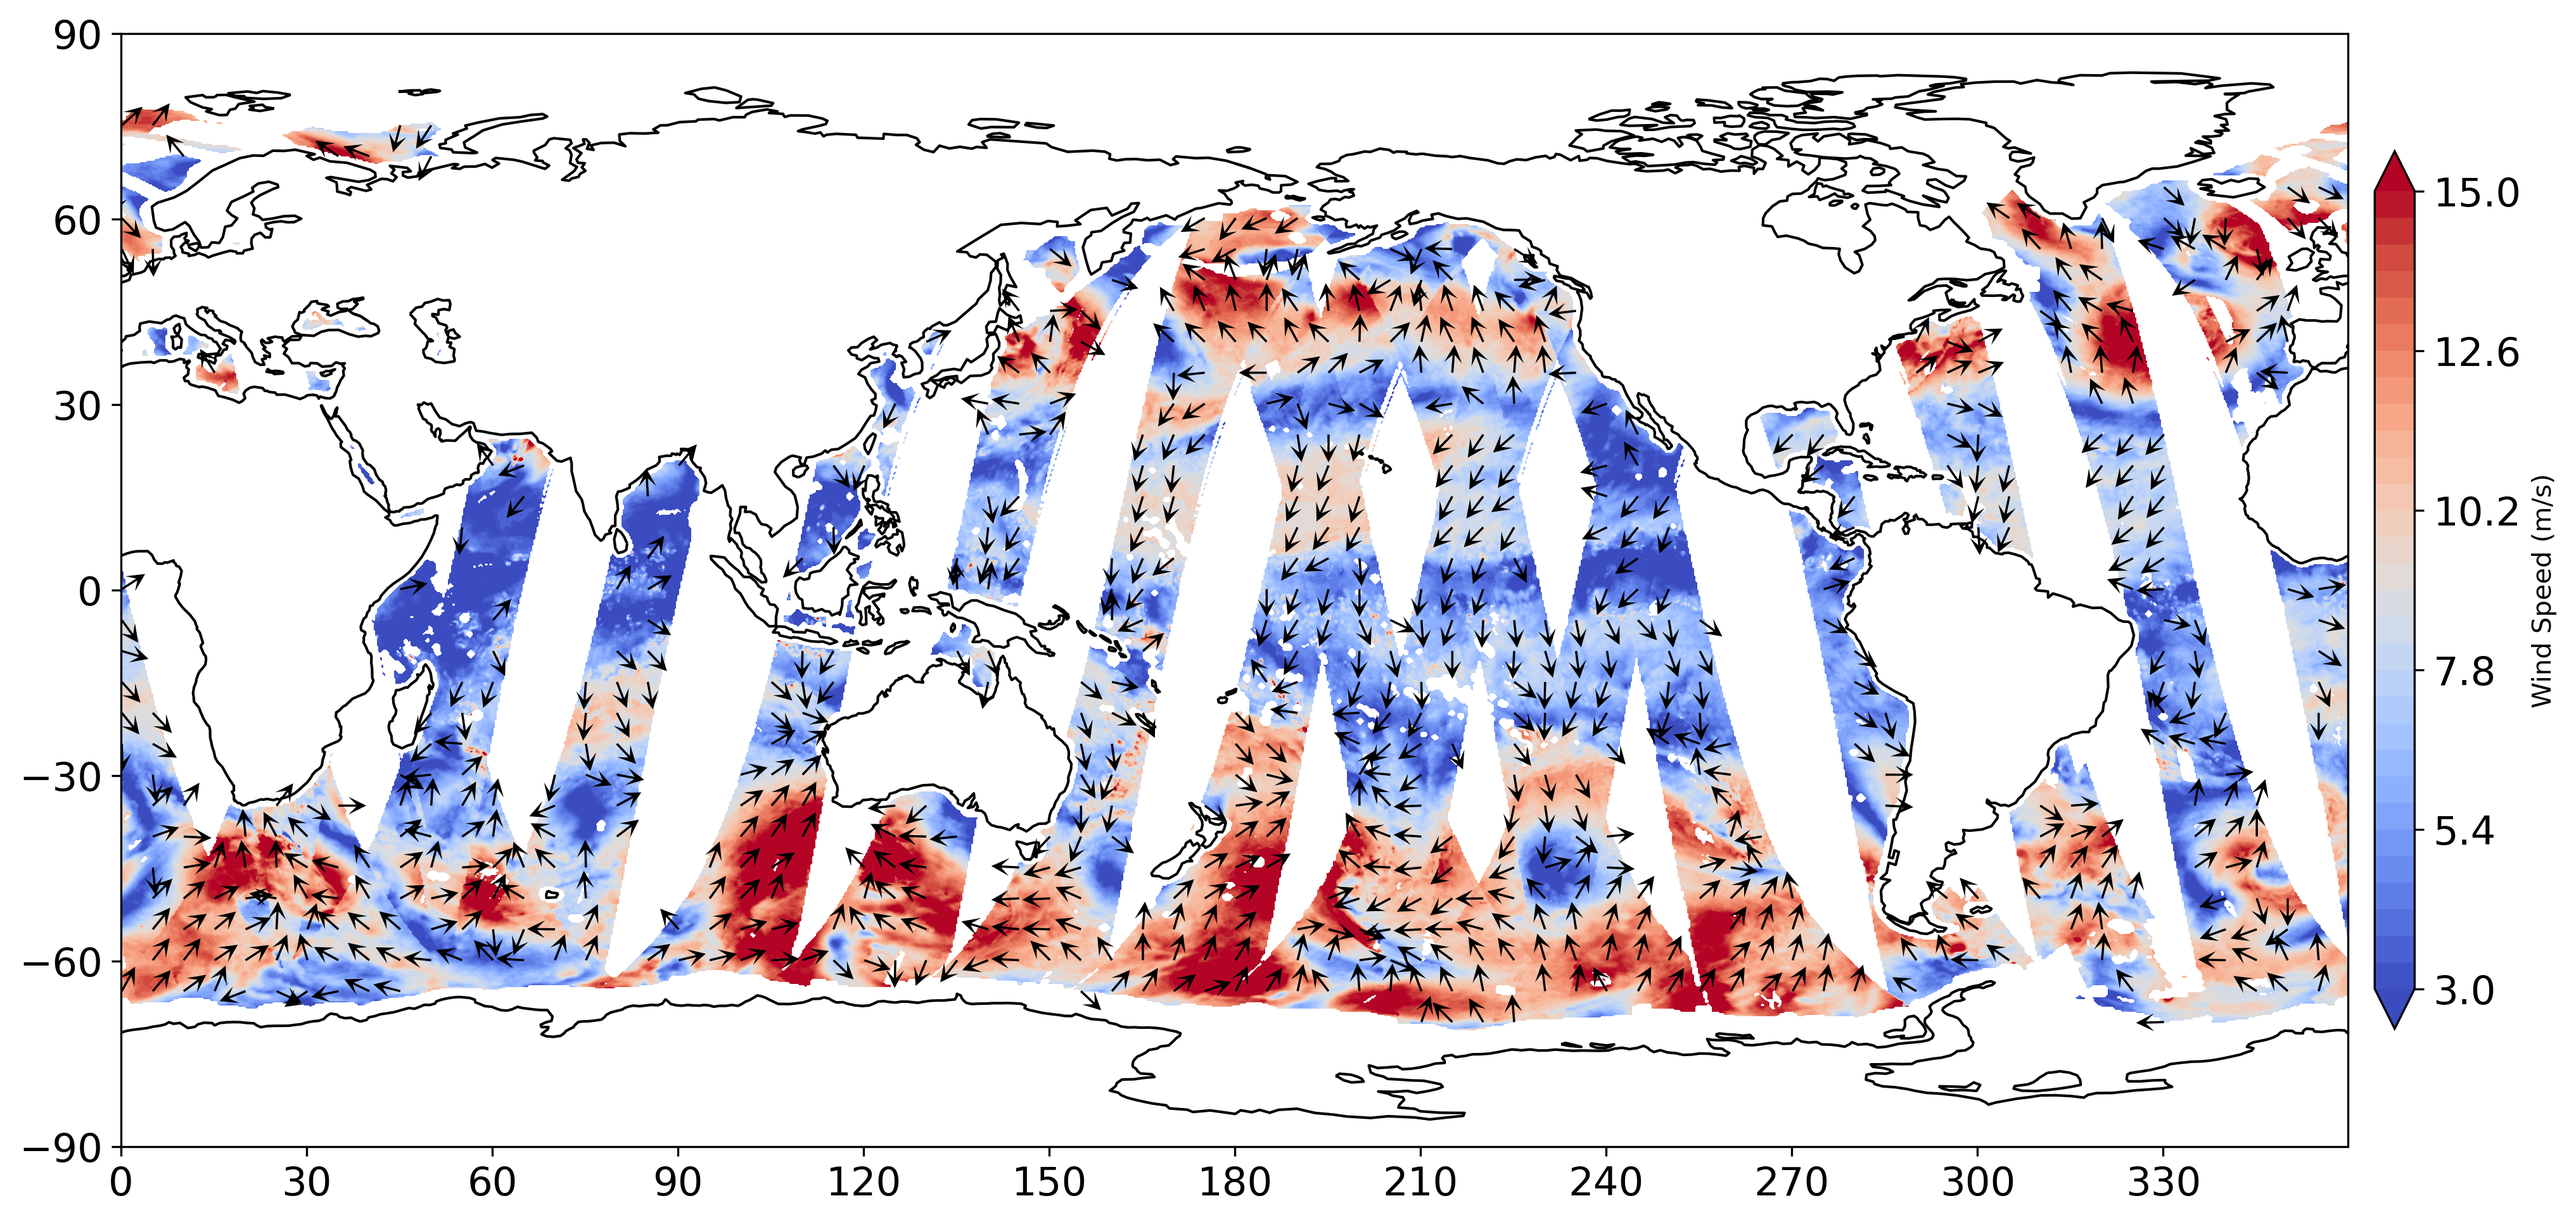
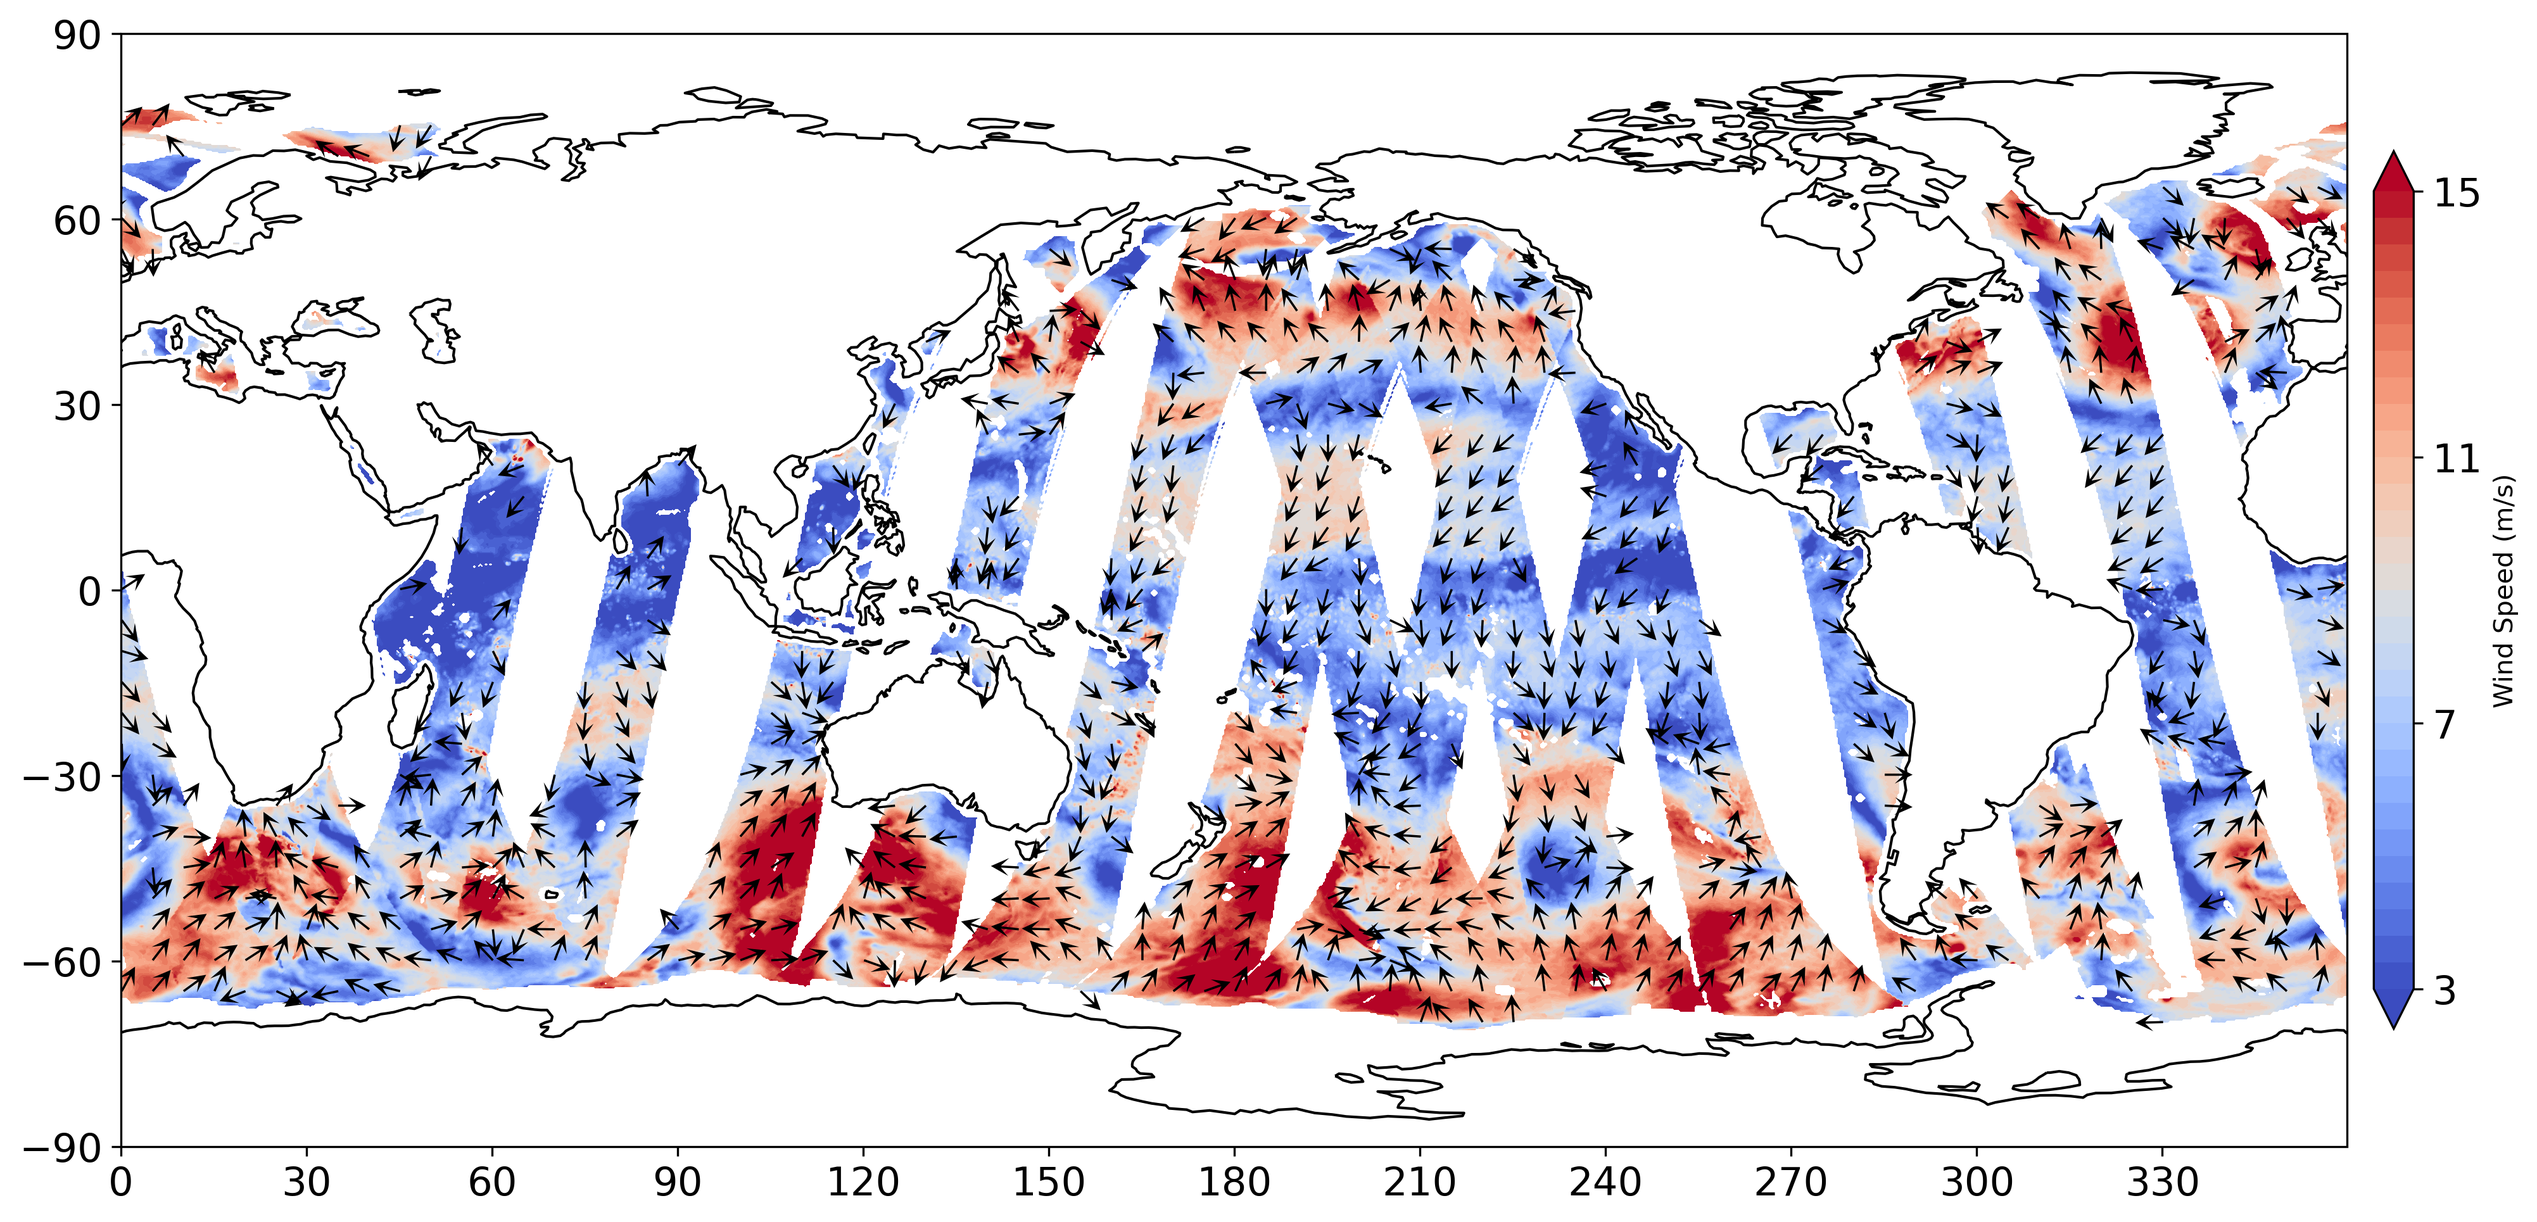
modified

diff --git a/scripts/read_windsat.py b/scripts/read_windsat.py
@@ -80,7 +80,7 @@ cbar = plt.colorbar(
     pad=0.01,
     shrink=0.6,
     label="Wind Speed (m/s)",
-    ticks=np.linspace(3, 15, 6),
+    ticks=np.linspace(3, 15, 4),
 )
 # set the labels
 cbar.ax.tick_params(labelsize=15)
